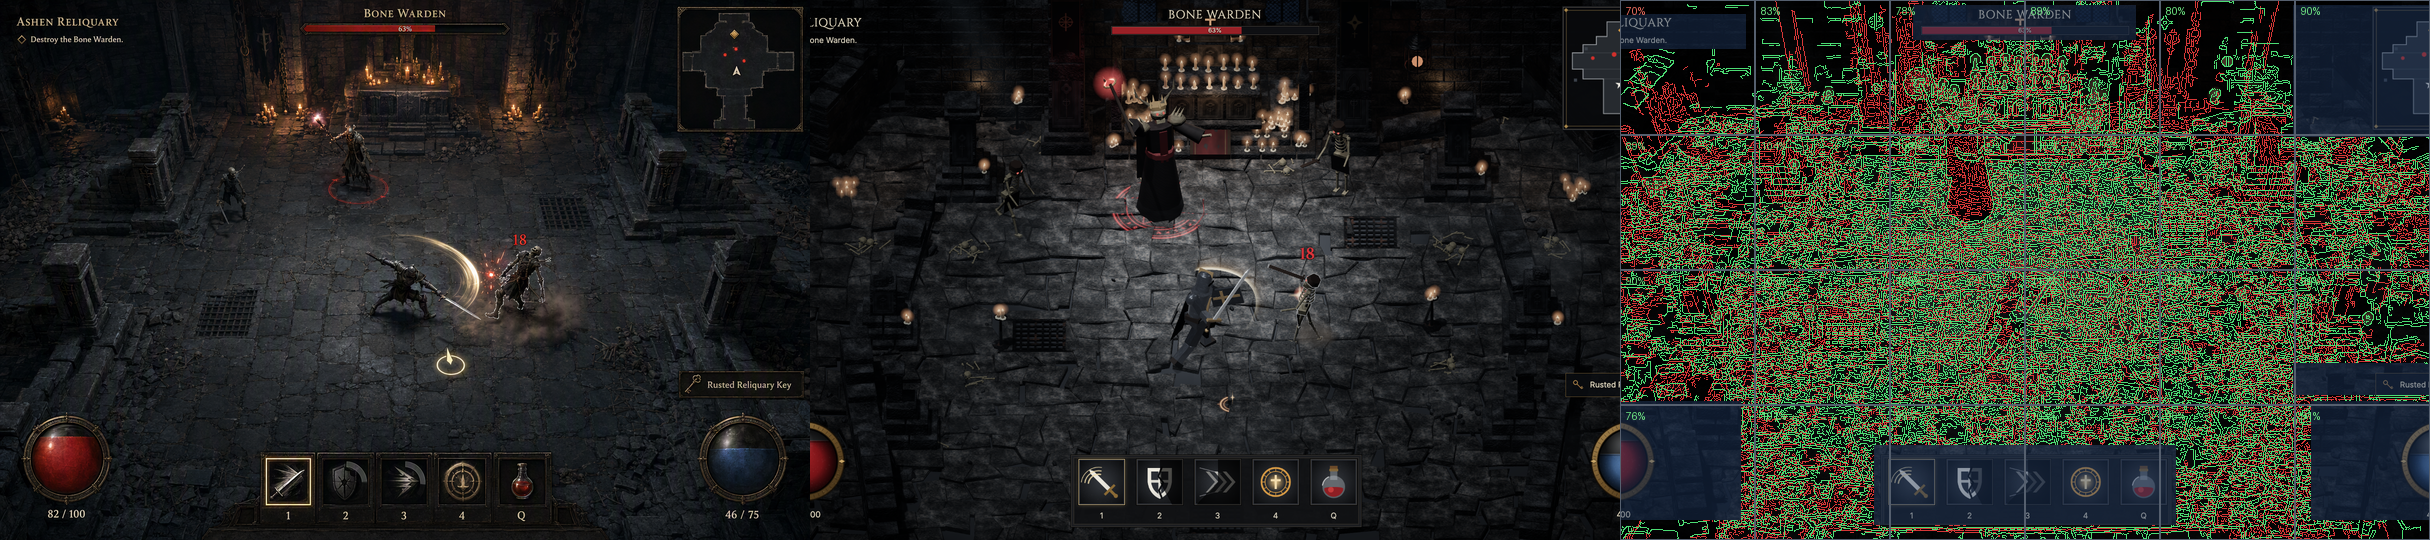
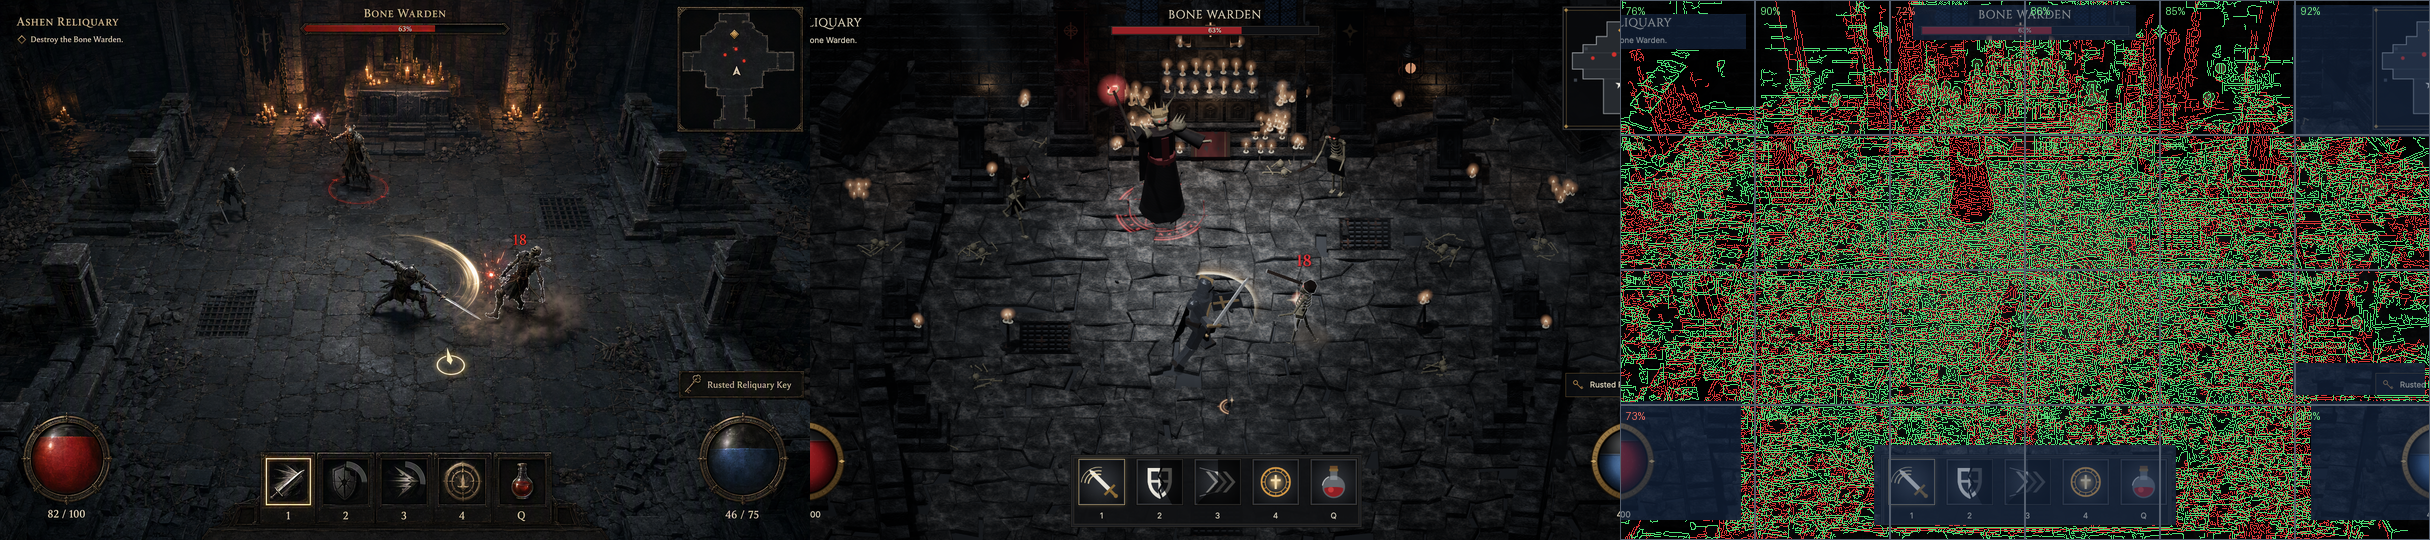
Crypt pose refined (struct 69.6)

diff --git a/src/main.js b/src/main.js
@@ -75,7 +75,7 @@ composer.addPass(new OutputPass());
 const POSES = {
   title: { target: new THREE.Vector3(0, -1.25, 0.9), yaw: 9, pitch: 24.5, height: 14, fov: 24, moon: 0.35, hemi: 0.8, candles: 0.8, shade: 0, sat: 0.85, gain: 0.92, lo: [0.86, 0.99, 1.22], hi: [1.04, 1, 0.95] },
   settings: { target: new THREE.Vector3(-3.6, 1.5, -1.75), yaw: 6, pitch: 19.25, height: 13, fov: 2, moon: 2.1, hemi: 1.3, shade: 0.2, sat: 0.5, gain: 0.76, lo: [0.96, 0.99, 1.0] },
-  crypt: { target: new THREE.Vector3(0.15, -1.1, 0.7), yaw: 0, pitch: 38, height: 17.2, fov: 2, moon: 2.15, hemi: 1.3, pool: 6, candles: 0.4, shade: 0.05, sat: 0.6, gain: 1, lo: [0.96, 0.99, 1.04], hi: [1, 1, 0.95] },
+  crypt: { target: new THREE.Vector3(0.15, -1.1, 0.7), yaw: 0, pitch: 39.8, height: 17.8, fov: 2, moon: 2.15, hemi: 1.3, pool: 6, candles: 0.4, shade: 0.05, sat: 0.6, gain: 1, lo: [0.96, 0.99, 1.04], hi: [1, 1, 0.95] },
 };
 const cam = { target: POSES[START].target.clone(), yaw: POSES[START].yaw, pitch: POSES[START].pitch, height: POSES[START].height, fov: POSES[START].fov ?? 4 };
 let shake = 0;
